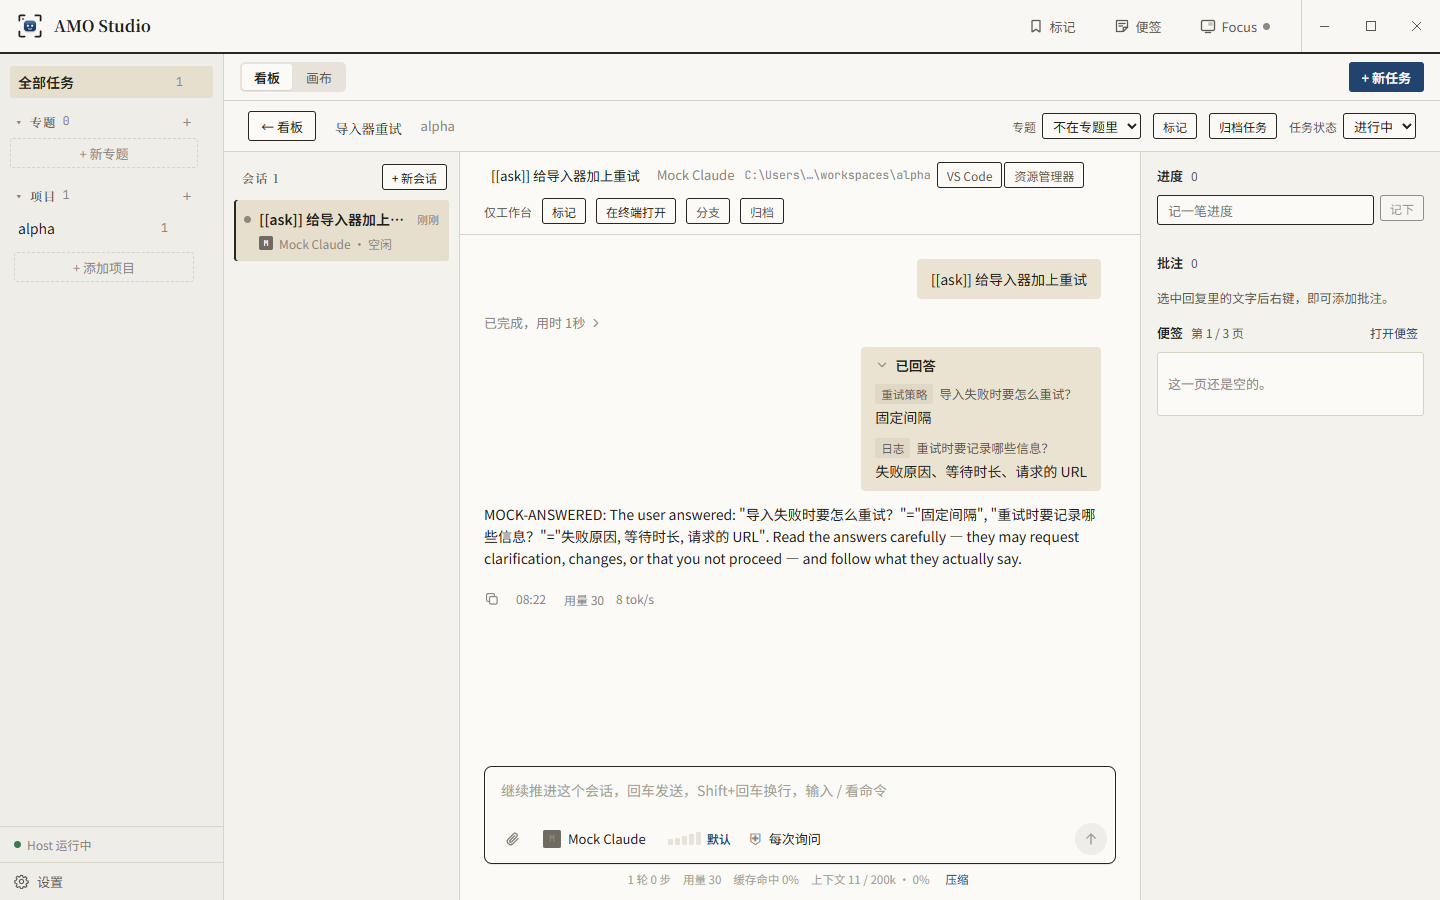
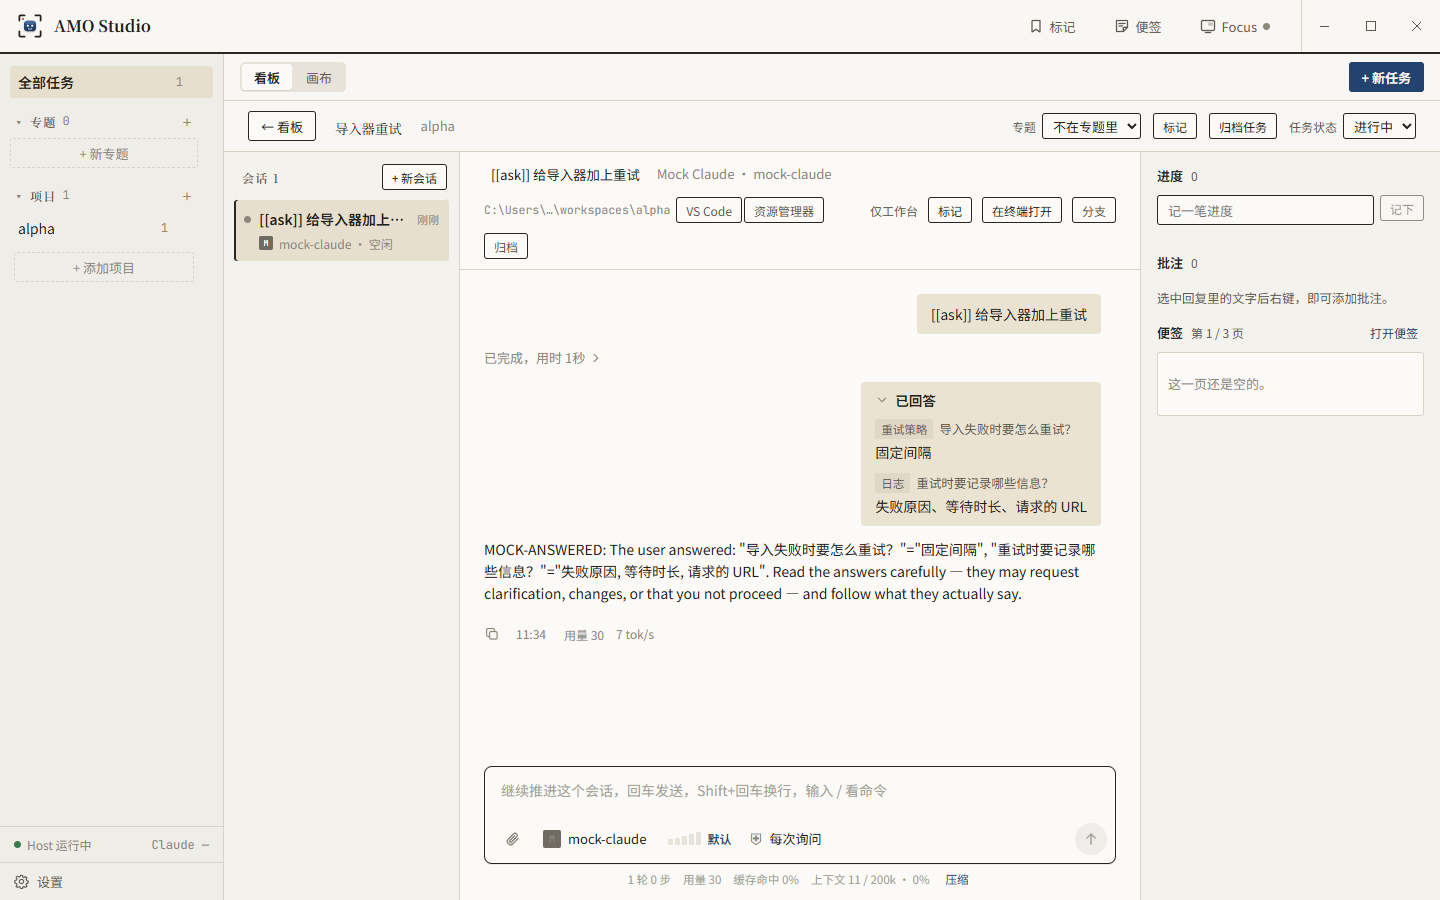
feat(studio): questions open as a popup over the conversation; notices float
- A pending question's card is a second-level popup over the conversation
  (dimmed behind it) instead of taking the composer's seat; folded it is a
  strip at the bottom. The conversation and the composer keep their place.
- One notice system for every window (lib/toast): notices float at the top
  centre, never push the page down, and go away by themselves (errors stay
  longer, hovering keeps one). The task page, Git Review, file marks, the
  Host error notice and the canvas use it.

diff --git a/studio/packages/ui/src/lib/toast.tsx b/studio/packages/ui/src/lib/toast.tsx
@@ -1,0 +1,91 @@
+import { useEffect, useRef, useState } from "react";
+
+// Short notices ("已把留言转进对话。", errors of an action) for every window: they float at the top centre over the page,
+// never push it down, and go away by themselves (errors stay longer; hovering keeps one). One <Toaster /> per window.
+
+export interface ToastInput {
+  text: string;
+  error?: boolean;
+  /** A command to show under the text (copyable). */
+  command?: string;
+  /** Replaces the notice with the same key instead of adding another. */
+  key?: string;
+  /** Stays until closed (or dismissed by key). */
+  sticky?: boolean;
+  /** data-testid of this notice; the newest one is always also reachable as "toast". */
+  testId?: string;
+}
+
+interface ToastItem extends ToastInput {
+  id: number;
+}
+
+const INFO_MS = 4000;
+const ERROR_MS = 8000;
+const MAX = 3;
+
+let items: ToastItem[] = [];
+let seq = 0;
+const listeners = new Set<(list: ToastItem[]) => void>();
+const emit = () => listeners.forEach((l) => l(items));
+
+export function showToast(input: ToastInput | string): void {
+  const t = typeof input === "string" ? { text: input } : input;
+  const item = { ...t, id: ++seq };
+  items = [...items.filter((x) => !t.key || x.key !== t.key), item].slice(-MAX);
+  emit();
+}
+
+/** Shorthand for an error notice. */
+export const showError = (text: string) => showToast({ text, error: true });
+
+export function dismissToast(keyOrId: string | number): void {
+  items = items.filter((x) => x.id !== keyOrId && x.key !== keyOrId);
+  emit();
+}
+
+export function Toaster() {
+  const [list, setList] = useState<ToastItem[]>(items);
+  useEffect(() => {
+    listeners.add(setList);
+    setList(items);
+    return () => void listeners.delete(setList);
+  }, []);
+  if (!list.length) return null;
+  return (
+    <div className="toaster" aria-live="polite">
+      {list.map((t, i) => (
+        <ToastView key={t.id} toast={t} newest={i === list.length - 1} />
+      ))}
+    </div>
+  );
+}
+
+function ToastView({ toast, newest }: { toast: ToastItem; newest: boolean }) {
+  const timer = useRef<ReturnType<typeof setTimeout> | null>(null);
+  const start = () => {
+    if (toast.sticky) return;
+    timer.current = setTimeout(() => dismissToast(toast.id), toast.error ? ERROR_MS : INFO_MS);
+  };
+  const stop = () => {
+    if (timer.current) clearTimeout(timer.current);
+    timer.current = null;
+  };
+  // eslint-disable-next-line react-hooks/exhaustive-deps -- one timer per notice
+  useEffect(() => (start(), stop), []);
+  return (
+    <div
+      role={toast.error ? "alert" : "status"}
+      className={toast.error ? "toast toast-error" : "toast"}
+      data-testid={toast.testId ?? (newest ? "toast" : "toast-older")}
+      onMouseEnter={stop}
+      onMouseLeave={start}
+    >
+      <span>{toast.text}</span>
+      {toast.command && <code>{toast.command}</code>}
+      <button type="button" className="toast-close" aria-label="关闭提示" onClick={() => dismissToast(toast.id)}>
+        ×
+      </button>
+    </div>
+  );
+}

diff --git a/studio/e2e/tests/questions.spec.ts b/studio/e2e/tests/questions.spec.ts
@@ -2,7 +2,7 @@ import { expect, test } from "@playwright/test";
 import type { StateSnapshot, Workspace } from "@amo-studio/protocol";
 import { launchStudio, screenshot, type Studio } from "./studio.js";
 
-// Stage 12, S12-B: Claude's questions (AskUserQuestion) take the composer's seat and the answers reach the model;
+// Stage 12, S12-B: Claude's questions (AskUserQuestion) open as a popup over the conversation and the answers reach the model;
 // a plan written in 只做计划 is reviewed in the conversation (要修改 sends the composer's text back, 批准并开始 leaves
 // plan mode). Real Claude Agent SDK against the mock Anthropic API; no model budget.
 
@@ -19,14 +19,18 @@ async function openTask(s: Studio, firstSession: Record<string, unknown>) {
   await s.page.getByTestId("task-card").first().click();
 }
 
-test("answers Claude's questions in the composer seat", async () => {
+test("answers Claude's questions in a popup over the conversation", async () => {
   studio = await launchStudio({ transcriptView: "standard" });
   const { page, app } = studio;
   await openTask(studio, { text: "[[ask]] 给导入器加上重试" });
 
   const card = page.getByTestId("question-card");
   await expect(card).toBeVisible({ timeout: 60_000 });
-  await expect(page.getByLabel("输入消息")).toHaveCount(0);
+  // A popup: over the conversation, which keeps its size; the composer stays in place.
+  const popup = page.getByTestId("question-popup");
+  const thread = page.getByTestId("thread");
+  expect((await popup.boundingBox())!.height).toBeGreaterThanOrEqual((await thread.boundingBox())!.height - 1);
+  await expect(page.getByLabel("输入消息")).toBeVisible();
   await expect(card.locator(".qc-eyebrow")).toHaveText("Claude 在问你 · 重试策略");
   await expect(card.getByRole("heading")).toHaveText("导入失败时要怎么重试？");
   await expect(card.getByRole("radio")).toHaveCount(3);
@@ -43,6 +47,13 @@ test("answers Claude's questions in the composer seat", async () => {
   await card.getByRole("checkbox", { name: /等待时长/ }).click();
   await card.getByPlaceholder("其他：写下你的答案").fill("请求的 URL");
   await screenshot(app, "stage-12", "S12-B-question-multi", page);
+
+  // Folded: a strip at the bottom, the conversation readable again; unfolded it is the popup again.
+  await card.getByRole("button", { name: "收起问题卡片" }).click();
+  expect((await popup.boundingBox())!.height).toBeLessThan(120);
+  await screenshot(app, "stage-12", "S12-K-question-folded", page);
+  await card.getByRole("button", { name: "展开问题卡片" }).click();
+  await expect(card.locator(".qc-progress")).toHaveText("2 / 2");
 
   // Closing only hides the card: the conversation offers it again, drafts intact.
   await card.getByRole("button", { name: "关闭问题卡片" }).click();

diff --git a/studio/packages/ui/src/task/Thread.tsx b/studio/packages/ui/src/task/Thread.tsx
@@ -94,8 +94,9 @@ export function Thread({ link, presets, session, profile, tasks = [], sessions =
   const [dragging, setDragging] = useState(false);
   const picker = useRef<HTMLInputElement>(null);
 
-  // A question the agent waits on takes the composer's seat (a plan review sits above the composer instead). Its card
-  // can be closed and opened again from its row in the conversation; "要修改" turns the composer into the feedback box.
+  // A question the agent waits on opens as a card over the conversation (a second-level popup: the conversation and
+  // the composer keep their place; a plan review sits above the composer instead). It can be folded to a strip, or
+  // closed and opened again from its row in the conversation; "要修改" turns the composer into the feedback box.
   const asked = useMemo(() => pendingQuestion(items), [items]);
   const [hiddenCards, setHiddenCards] = useState<ReadonlySet<string>>(new Set());
   const [revising, setRevising] = useState<string | null>(null);
@@ -322,6 +323,11 @@ export function Thread({ link, presets, session, profile, tasks = [], sessions =
             <IconArrowDown />
           </button>
         )}
+        {session && asked && !readOnly && seat.isOpen(asked.id) && (
+          <div className="q-popup" data-testid="question-popup">
+            <QuestionCard link={link} sessionId={session.id} item={asked} onClose={() => setHiddenCards((cur) => new Set(cur).add(asked.id))} />
+          </div>
+        )}
       </div>
       {menu && (
         <div className="ctx-menu" role="menu" aria-label="选中文字" style={{ left: menu.x, top: menu.y }}>
@@ -358,12 +364,7 @@ export function Thread({ link, presets, session, profile, tasks = [], sessions =
           </button>
         </div>
       )}
-      {session && asked && !readOnly && seat.isOpen(asked.id) && (
-        <div className="composer-dock">
-          <QuestionCard link={link} sessionId={session.id} item={asked} onClose={() => setHiddenCards((cur) => new Set(cur).add(asked.id))} />
-        </div>
-      )}
-      {session && !(asked && !readOnly && seat.isOpen(asked.id)) && (
+      {session && (
         <div className="composer-dock" {...dropTarget}>
           {planReview && !readOnly && (
             <PlanReviewBar

diff --git a/studio/packages/ui/src/marks/MarksApp.tsx b/studio/packages/ui/src/marks/MarksApp.tsx
@@ -1,4 +1,5 @@
 import { useCallback, useEffect, useRef, useState, type DragEvent } from "react";
+import { showToast } from "../lib/toast.js";
 import { isCommon, lineLabel, lineSuffix, type FileMark, type StateSnapshot, type Workspace } from "@amo-studio/protocol";
 import { call, HostApiError, type HostLink } from "../host/client.js";
 import { useHostState } from "../host/useHostState.js";
@@ -40,18 +41,11 @@ function MarksPage({ link, state, currentId }: { link: HostLink; state: StateSna
   const { marks } = useFileMarks(link);
   const [query, setQuery] = useState("");
   const [pasted, setPasted] = useState("");
-  const [toast, setToast] = useState<Toast>(null);
+  const setToast = useCallback((t: Toast) => void (t && showToast(t)), []);
   const [picking, setPicking] = useState<Workspace | null>(null);
   const [looking, setLooking] = useState<FileMark | null>(null);
   const [dropping, setDropping] = useState(false);
   const [vscode, setVscode] = useState(false);
-
-  // Good news goes away by itself; errors stay until closed.
-  useEffect(() => {
-    if (!toast || toast.error) return;
-    const t = setTimeout(() => setToast((cur) => (cur === toast ? null : cur)), 4000);
-    return () => clearTimeout(t);
-  }, [toast]);
 
   useEffect(() => {
     void openInApps(link)
@@ -162,14 +156,6 @@ function MarksPage({ link, state, currentId }: { link: HostLink; state: StateSna
           + 标记文件
         </button>
       </header>
-      {toast && (
-        <div role="status" className={toast.error ? "toast toast-error" : "toast"} data-testid="toast">
-          <span>{toast.text}</span>
-          <button type="button" className="toast-close" aria-label="关闭提示" onClick={() => setToast(null)}>
-            ×
-          </button>
-        </div>
-      )}
       <div className="mk-body">
         {marks === null && <div className="mk-empty">正在读取…</div>}
         {marks !== null && !total && (

diff --git a/studio/packages/ui/src/task/TaskPage.tsx b/studio/packages/ui/src/task/TaskPage.tsx
@@ -11,6 +11,7 @@ import { Thread } from "./Thread.js";
 import { flash } from "./ReplyNav.js";
 import { REVEAL_ITEM_EVENT } from "../chat/Transcript.js";
 import { useSettings } from "../settings/SettingsDialog.js";
+import { showToast } from "../lib/toast.js";
 import { AnnotationPanel } from "../review/AnnotationPanel.js";
 import { MailPanel, useTaskMail } from "../collab/MailPanel.js";
 import { DecisionPanel, useOpenDecisions } from "../collab/DecisionPanel.js";
@@ -61,7 +62,8 @@ const WRITER = {
 export function TaskPage({ link, task, sessions, tasks = [task], workspaces, topics = [], profiles, checklist = [], initialSessionId, backLabel = "看板", onBack }: TaskPageProps) {
   const own = sessions.filter((s) => s.taskId === task.id);
   const [selected, setSelected] = useState<string | null>(initialSessionId ?? own.find((s) => !s.archivedAt)?.id ?? null);
-  const [toast, setToast] = useState<Toast>(null);
+  // Notices float over the window (lib/toast); null clears nothing, they go away by themselves.
+  const setToast = (t: Toast) => void (t && showToast(t));
   const [busy, setBusy] = useState(false);
   const [pendingAnnotation, setPendingAnnotation] = useState<SelectionAnchor | null>(null);
   // The quick look of a file named in the conversation (stage 12); it takes the right column while open.
@@ -270,16 +272,6 @@ export function TaskPage({ link, task, sessions, tasks = [task], workspaces, top
           </select>
         </label>
       </div>
-
-      {toast && (
-        <div role="status" className={toast.error ? "toast toast-error" : "toast"} data-testid="toast">
-          <span>{toast.text}</span>
-          {toast.command && <code>{toast.command}</code>}
-          <button type="button" className="toast-close" aria-label="关闭提示" onClick={() => setToast(null)}>
-            ×
-          </button>
-        </div>
-      )}
 
       <div className="task-body">
         <SessionTree

diff --git a/studio/packages/ui/src/lib/ErrorBoundary.tsx b/studio/packages/ui/src/lib/ErrorBoundary.tsx
@@ -1,4 +1,5 @@
 import { Component, useEffect, useState, type ErrorInfo, type ReactNode } from "react";
+import { showToast } from "./toast.js";
 import { onHostEvent } from "../host/events.js";
 
 // Keeps a rendering failure to the part that failed (one conversation row, one turn, one page, one window) instead of
@@ -108,16 +109,8 @@ export function WindowBoundary({ children }: { children: ReactNode }) {
  * toast, the latest one.
  */
 export function HostErrorToast() {
-  const [message, setMessage] = useState<string | null>(null);
-  useEffect(() => onHostEvent((e) => e.type === "host.error" && setMessage(`Host 内部出错，已记录到 host.log，会话照常运行：${e.message}`)), []);
-  useEffect(() => window.amo?.onHostRestarted?.(() => setMessage("Host 意外退出，已自动重新启动。Codex 会话会接着运行；Claude 会话正在进行的回复被中断了，发一条消息即可继续。")), []);
-  if (!message) return null;
-  return (
-    <div role="status" className="toast toast-error host-error-toast" data-testid="host-error">
-      <span>{message}</span>
-      <button type="button" className="toast-close" aria-label="关闭提示" onClick={() => setMessage(null)}>
-        ×
-      </button>
-    </div>
-  );
+  const show = (text: string, sticky = false) => showToast({ text, error: true, key: "host-error", testId: "host-error", sticky });
+  useEffect(() => onHostEvent((e) => e.type === "host.error" && show(`Host 内部出错，已记录到 host.log，会话照常运行：${e.message}`)), []);
+  useEffect(() => window.amo?.onHostRestarted?.(() => show("Host 意外退出，已自动重新启动。Codex 会话会接着运行；Claude 会话正在进行的回复被中断了，发一条消息即可继续。", true)), []);
+  return null;
 }

diff --git a/studio/packages/ui/src/task/task.css b/studio/packages/ui/src/task/task.css
@@ -25,7 +25,10 @@
 .thread-head { display: flex; align-items: center; gap: 10px; padding: 10px 24px; border-bottom: 1px solid var(--border); background: var(--panel); flex-wrap: wrap; }
 .thread-title { font-weight: 600; }
 .writer { font-size: 12px; }
-.toast { margin: 10px 24px 0; padding: 10px 36px 10px 14px; border-radius: var(--r-l); background: var(--tint); border: 1px solid var(--selection); font-size: var(--fs-sm); display: flex; flex-direction: column; gap: 4px; position: relative; }
+/* Notices (lib/toast.tsx): float at the top centre of the window over the page, never push it down. */
+.toaster { position: fixed; top: 64px; left: 50%; transform: translateX(-50%); z-index: 80; display: flex; flex-direction: column; align-items: center; gap: 6px; width: max-content; max-width: min(560px, calc(100vw - 32px)); pointer-events: none; }
+.toast { pointer-events: auto; max-width: 100%; padding: 9px 34px 9px 14px; border-radius: var(--r-l); background: var(--panel-raised); border: 1px solid var(--border-strong); box-shadow: 0 8px 24px var(--shadow); font-size: var(--fs-sm); line-height: var(--lh); display: flex; flex-direction: column; gap: 4px; position: relative; animation: toast-in 0.16s ease-out; }
+@keyframes toast-in { from { opacity: 0; transform: translateY(-6px); } }
 .toast code { font-family: var(--font-code); font-size: 12px; color: var(--primary-hover); word-break: break-all; }
 .toast-error { background: var(--error-bg); border-color: var(--error-border); color: var(--error-text); }
 .toast-close { position: absolute; top: 6px; right: 8px; border: none; background: transparent; color: var(--text-dim); font-size: 16px; cursor: pointer; }

diff --git a/studio/packages/ui/src/gitreview/ReviewApp.tsx b/studio/packages/ui/src/gitreview/ReviewApp.tsx
@@ -1,4 +1,5 @@
 import { useCallback, useEffect, useMemo, useRef, useState } from "react";
+import { showToast } from "../lib/toast.js";
 import { composeGitReviewMessage, GIT_RANGES, rangeBase, type GitChangedFile, type GitChanges, type GitFileDiff, type GitRange, type GitReviewComment, type StateSnapshot, type Workspace } from "@amo-studio/protocol";
 import { call, HostApiError, type HostLink } from "../host/client.js";
 import { useHostState } from "../host/useHostState.js";
@@ -73,7 +74,7 @@ function ReviewPage({ link, state, workspace, sessionId }: { link: HostLink; sta
   const [active, setActive] = useState<number | null>(null);
   const [reload, setReload] = useState(0);
   const [busy, setBusy] = useState(false);
-  const [toast, setToast] = useState<Toast>(null);
+  const setToast = (t: Toast) => void (t && showToast(t));
 
   // Diffs once read stay (刷新 forgets them); neighbours and the file under the pointer are read ahead, and their
   // colours worked out ahead in the highlight worker.
@@ -318,14 +319,6 @@ function ReviewPage({ link, state, workspace, sessionId }: { link: HostLink; sta
         </button>
       </header>
 
-      {toast && (
-        <div role="status" className={toast.error ? "toast toast-error" : "toast"} data-testid="toast">
-          <span>{toast.text}</span>
-          <button type="button" className="toast-close" aria-label="关闭提示" onClick={() => setToast(null)}>
-            ×
-          </button>
-        </div>
-      )}
 
       {status && !status.repo ? (
         <div className="placeholder" data-testid="review-not-git">

diff --git a/studio/packages/ui/src/chat/questions/QuestionRecord.tsx b/studio/packages/ui/src/chat/questions/QuestionRecord.tsx
@@ -3,8 +3,8 @@ import { IconChevronDown, IconChevronRight, IconSparkle } from "../icons.js";
 import { answersSummary, answerText, formValueText, type QuestionItem } from "./flow.js";
 import { PlanCard } from "./PlanReview.js";
 
-// A question in the conversation. While pending: a row that says the agent waits, with "回答" to bring the card back
-// to the composer seat. Once answered: a compact reply (after DSH's question-reply bubble, MIT) that opens to show
+// A question in the conversation. While pending: a row that says the agent waits, with "回答" to open its card again
+// over the conversation. Once answered: a compact reply (after DSH's question-reply bubble, MIT) that opens to show
 // each question and its answer.
 
 /** What the composer offers the transcript: whether a question's card is showing, and showing it again. */
@@ -31,7 +31,7 @@ function PendingRow({ item }: { item: QuestionItem }) {
         {item.source === "mcp-form" ? `等你填写：${item.message || "表单"}` : `等你回答${count > 1 ? ` ${count} 个问题` : ""}：${item.questions?.[0]?.question ?? ""}`}
       </span>
       {open ? (
-        <span className="q-pending-hint">在输入框处回答</span>
+        <span className="q-pending-hint">在弹出的卡片里回答</span>
       ) : (
         <button type="button" className="btn-ghost small" onClick={() => seat?.reopen(item.id)}>
           回答

diff --git a/studio/packages/ui/src/chat/questions/questions.css b/studio/packages/ui/src/chat/questions/questions.css
@@ -2,7 +2,18 @@
    composer's seat, the plan review bar and plan card, and the rows the transcript keeps. Colours come from the chat
    and base tokens only. */
 
-/* ---- the card in the composer seat ------------------------------------------------------------------------------- */
+/* ---- the card: a popup over the conversation ---------------------------------------------------------------------- */
+
+/* Over the conversation, which dims behind it; nothing moves. Folded, it is a strip at the bottom and lets the
+   conversation be read and scrolled. */
+.q-popup {
+  position: absolute; inset: 0; z-index: 20; display: flex; align-items: center; justify-content: center; padding: 24px;
+  background: color-mix(in srgb, var(--bg) 55%, transparent); animation: q-popup-in 0.14s ease-out;
+}
+.q-popup > .qc { max-height: 100%; box-shadow: 0 18px 48px var(--shadow); }
+.q-popup:has(> .qc[data-minimized]) { inset: auto 0 0 0; padding: 0 24px 8px; background: none; pointer-events: none; animation: none; }
+.q-popup:has(> .qc[data-minimized]) > .qc { pointer-events: auto; }
+@keyframes q-popup-in { from { opacity: 0; } }
 
 .qc {
   width: 100%; max-width: var(--chat-width); max-height: min(60vh, 520px); display: flex; flex-direction: column;

diff --git a/studio/packages/ui/src/canvas/CanvasPage.tsx b/studio/packages/ui/src/canvas/CanvasPage.tsx
@@ -249,6 +249,7 @@ export function CanvasPage({ link, topic, tasks, allTasks = tasks, topics = [top
 
   return (
     <section className="canvas-page" aria-label="画布">
+      <div className="toaster">
       {conflict && (
         <div role="status" className="toast" data-testid="canvas-conflict">
           <span>画布刚在别处更新过，已载入最新内容，刚才的改动没有保存。</span>
@@ -265,6 +266,7 @@ export function CanvasPage({ link, topic, tasks, allTasks = tasks, topics = [top
           </button>
         </div>
       )}
+      </div>
       <div className="canvas-row">
       <div className={drag?.kind === "pan" ? "canvas-viewport panning" : "canvas-viewport"} ref={viewport} onMouseDown={startPan} data-testid="canvas-viewport">
         <div className="canvas-world" data-testid="canvas-world" style={{ transform: `translate(${view.x}px, ${view.y}px) scale(${view.k})` }}>

diff --git a/studio/packages/ui/src/main.tsx b/studio/packages/ui/src/main.tsx
@@ -35,6 +35,7 @@ import "./chat/questions/questions.css";
 import "./chat/cli/cli.css";
 import { applyTheme, followThemeChanges } from "./lib/theme.js";
 import { WindowBoundary } from "./lib/ErrorBoundary.js";
+import { Toaster } from "./lib/toast.js";
 
 // One bundle, two windows: the workbench, and the Focus window (loaded with #focus).
 const focus = location.hash === "#focus";
@@ -55,6 +56,9 @@ const root = document.getElementById("root");
 if (!root) throw new Error("missing #root");
 createRoot(root).render(
   <StrictMode>
-    <WindowBoundary>{focus ? <FocusApp /> : scratchpad ? <ScratchpadApp /> : review ? <ReviewApp /> : marks ? <MarksApp /> : <App />}</WindowBoundary>
+    <WindowBoundary>
+      {focus ? <FocusApp /> : scratchpad ? <ScratchpadApp /> : review ? <ReviewApp /> : marks ? <MarksApp /> : <App />}
+      <Toaster />
+    </WindowBoundary>
   </StrictMode>,
 );
